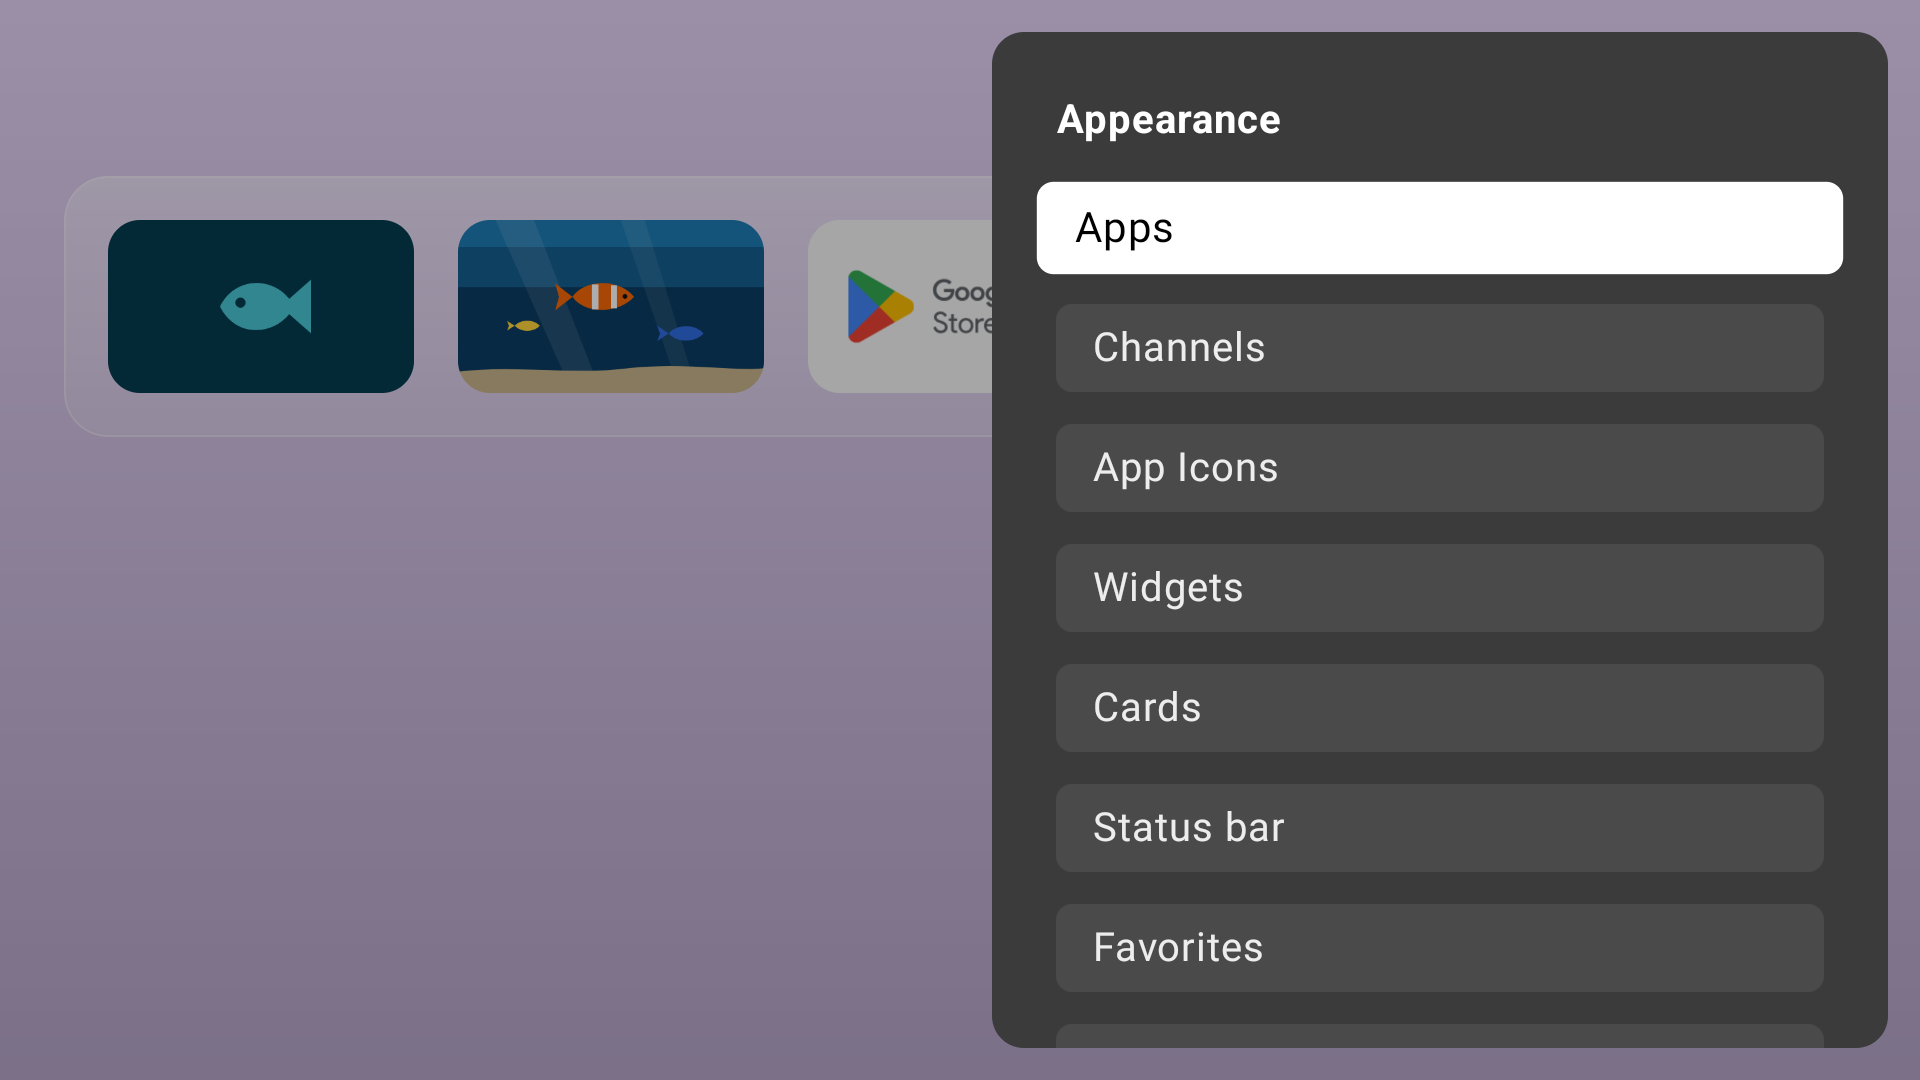
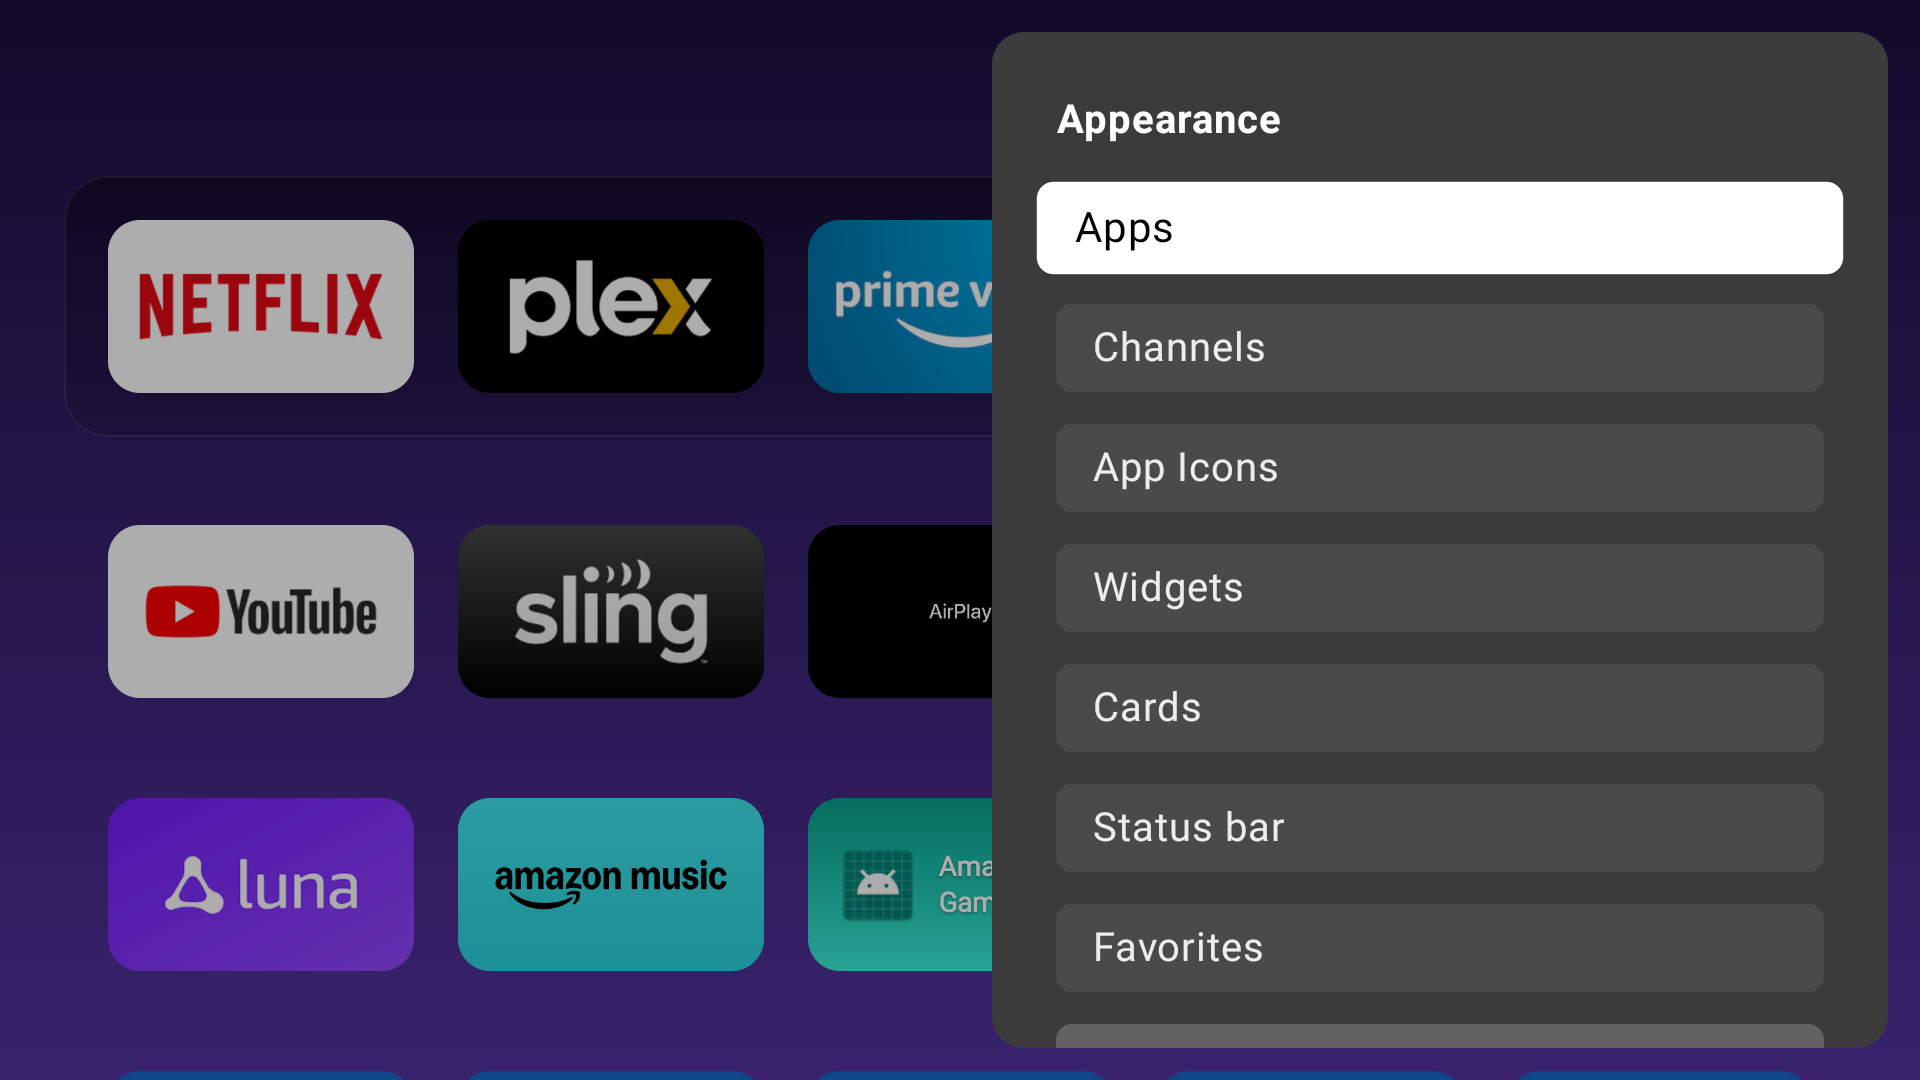
Fix Settings menu dismissal and Home navigation

diff --git a/tests/test_menu_navigation.py b/tests/test_menu_navigation.py
@@ -1,0 +1,60 @@
+import os
+import re
+import subprocess
+import time
+import unittest
+import xml.etree.ElementTree as ET
+
+
+@unittest.skipUnless(os.environ.get('FIRE_TV_UI_MENU_TEST_SERIAL'),
+                     'Set FIRE_TV_UI_MENU_TEST_SERIAL to a TV for remote navigation checks.')
+class MenuNavigationChecks(unittest.TestCase):
+    def adb(self, *args):
+        return subprocess.check_output(
+            ['adb', '-s', os.environ['FIRE_TV_UI_MENU_TEST_SERIAL'], *args], text=True, timeout=30)
+
+    def screen(self):
+        path = '/sdcard/fire-tv-ui-menu-test.xml'
+        for attempt in range(3):
+            self.adb('shell', 'rm', '-f', path)
+            self.adb('shell', 'uiautomator', 'dump', path)
+            try:
+                return ET.fromstring(self.adb('shell', 'cat', path))
+            except (subprocess.CalledProcessError, ET.ParseError):
+                if attempt == 2:
+                    raise
+                time.sleep(0.5)
+
+    def tap(self, label):
+        matches = [node for node in self.screen().iter('node')
+                   if label in (node.get('text'), node.get('content-desc'))]
+        self.assertTrue(matches, 'Missing control: ' + label)
+        x1, y1, x2, y2 = map(int, re.findall(r'\d+', matches[0].get('bounds')))
+        self.adb('shell', 'input', 'tap', str((x1 + x2) // 2), str((y1 + y2) // 2))
+
+    def assert_home(self):
+        screen = self.screen()
+        self.assertFalse(any(node.get('text') == 'Settings' for node in screen.iter('node')))
+        self.assertTrue(any(node.get('content-desc') == 'Preferences'
+                            for node in screen.iter('node')))
+        self.assertIn('com.jeremykenedy.firetv.ui/.MainActivity',
+                      self.adb('shell', 'dumpsys', 'activity', 'activities'))
+
+    def test_remote_menu_dismissal_and_home(self):
+        self.adb('shell', 'am', 'start', '-a', 'android.intent.action.MAIN',
+                 '-c', 'android.intent.category.HOME',
+                 '-n', 'com.jeremykenedy.firetv.ui/.MainActivity')
+        self.assert_home()
+        for key in (4, 4, 82, 3):
+            self.tap('Preferences')
+            self.assertTrue(any(node.get('text') == 'Settings'
+                                for node in self.screen().iter('node')))
+            self.adb('shell', 'input', 'keyevent', str(key))
+            self.assert_home()
+        self.tap('Preferences')
+        self.tap('Theme Mode')
+        self.adb('shell', 'input', 'keyevent', '4')
+        self.assert_home()
+        self.tap('Preferences')
+        self.adb('shell', 'input', 'keyevent', '4')
+        self.assert_home()

diff --git a/scripts/patch_launcher.py b/scripts/patch_launcher.py
@@ -50,6 +50,44 @@ def patch(decoded):
     main = class_paths["Lcom/overdevs/at4k/MainActivity;"]
     text = main.read_text()
     text = replace_once(text,
+        '    const-string v0, "event"\n\n'
+        '    invoke-static {p1, v0}, Lo4/j;->e(Ljava/lang/Object;Ljava/lang/String;)V',
+        '    const-string v0, "event"\n\n'
+        '    invoke-static {p1, v0}, Lo4/j;->e(Ljava/lang/Object;Ljava/lang/String;)V\n\n'
+        '    invoke-virtual {p1}, Landroid/view/KeyEvent;->getKeyCode()I\n'
+        '    move-result v1\n'
+        '    const/4 v2, 0x4\n'
+        '    if-eq v1, v2, :settings_dismiss_key\n'
+        '    const/16 v2, 0x52\n'
+        '    if-ne v1, v2, :settings_key_done\n'
+        '    :settings_dismiss_key\n'
+        '    iget-object v0, p0, Lcom/overdevs/at4k/MainActivity;->A:LQ3/T3;\n'
+        '    if-eqz v0, :settings_key_done\n'
+        '    iget-object v2, v0, LQ3/T3;->m0:LN/g0;\n'
+        '    invoke-virtual {v2}, LN/g0;->getValue()Ljava/lang/Object;\n'
+        '    move-result-object v2\n'
+        '    check-cast v2, Ljava/lang/Boolean;\n'
+        '    invoke-virtual {v2}, Ljava/lang/Boolean;->booleanValue()Z\n'
+        '    move-result v2\n'
+        '    if-eqz v2, :settings_key_done\n'
+        '    invoke-virtual {p1}, Landroid/view/KeyEvent;->getAction()I\n'
+        '    move-result v2\n'
+        '    const/4 v1, 0x1\n'
+        '    if-ne v2, v1, :settings_key_consumed\n'
+        '    invoke-virtual {v0}, LQ3/T3;->u()Ljava/lang/String;\n'
+        '    move-result-object v2\n'
+        '    if-nez v2, :settings_submenu_close\n'
+        '    iget-object v2, v0, LQ3/T3;->m0:LN/g0;\n'
+        '    sget-object v1, Ljava/lang/Boolean;->FALSE:Ljava/lang/Boolean;\n'
+        '    invoke-virtual {v2, v1}, LN/g0;->setValue(Ljava/lang/Object;)V\n'
+        '    :settings_submenu_close\n'
+        '    const/4 v1, 0x0\n'
+        '    invoke-virtual {v0, v1}, LQ3/T3;->T(Ljava/lang/String;)V\n'
+        '    :settings_key_consumed\n'
+        '    const/4 v1, 0x1\n'
+        '    return v1\n'
+        '    :settings_key_done')
+    text = replace_once(text,
         '    const-string v5, "is_premium"\n\n'
         '    invoke-interface {p1, v5, v3}, Landroid/content/SharedPreferences;->getBoolean(Ljava/lang/String;Z)Z\n\n'
         '    move-result p1', '    const/4 p1, 0x1')

diff --git a/app/src/com/jeremykenedy/firetv/ui/HomeRedirectService.java b/app/src/com/jeremykenedy/firetv/ui/HomeRedirectService.java
@@ -110,6 +110,7 @@ public class HomeRedirectService extends AccessibilityService {
                     + " is not installed, leaving the Amazon home screen up");
             return;
         }
+        launch.addCategory(Intent.CATEGORY_HOME);
         launch.addFlags(Intent.FLAG_ACTIVITY_NEW_TASK
                 | Intent.FLAG_ACTIVITY_RESET_TASK_IF_NEEDED
                 | Intent.FLAG_ACTIVITY_NO_ANIMATION);

diff --git a/README.md b/README.md
@@ -9,7 +9,7 @@
 <p align="center">A customizable home screen for Fire TV, with screensavers, persistent backups, local device protection, and every feature included.</p>
 
 <p align="center">
-    <a href="#building"><img src="https://img.shields.io/badge/Fire_TV_UI-v1.1.2-blue" alt="Build version"></a>
+    <a href="#building"><img src="https://img.shields.io/badge/Fire_TV_UI-v1.1.3-blue" alt="Build version"></a>
     <a href="LICENSE"><img src="https://img.shields.io/badge/License-MIT-yellow.svg" alt="License"></a>
 </p>
 
@@ -40,7 +40,7 @@ This repository and its APK are private. Users with repository access can instal
 The [Fire TV Toolkit](https://github.com/jeremykenedy/fire-tv-toolkit) can install a local signed APK and its published checksum:
 
 ```bash
-firetv-ui --install --apk=/path/to/fire-tv-ui-1.1.2.apk --sha256=PUBLISHED_SHA256
+firetv-ui --install --apk=/path/to/fire-tv-ui-1.1.3.apk --sha256=PUBLISHED_SHA256
 ```
 
 For a local build, run `python3 scripts/build.py`, then install it and grant screensaver, backup, storage, and package-install access:
@@ -56,6 +56,8 @@ For wireless ADB, Home-button setup, and transferring settings from an existing 
 ## Quick Start
 
 Open **Fire TV UI**, accept the accessibility disclosure if you want remote shortcuts, and use the preferences icon in the top bar to open Settings.
+
+Press **Back** or **Menu** to dismiss the Settings panel. **Home** returns to the launcher with the panel closed when Home routing is enabled.
 
 Choose **Settings > Screensavers** to select an installed screensaver. Each row has a sample image, installed storage usage, a circular selector, and a **Preview it** button. The top controls open the current screensaver's options, system timers, installation catalog, and memory usage. Previewing another app restores your prior selection afterward.
 
@@ -121,6 +123,7 @@ Device testing is described in [Verification](docs/verification.md).
 - [Verification](docs/verification.md)
 - [Screensaver previews](docs/screensaver-previews.md)
 - [Device controls and backups](docs/device-controls.md)
+- [Fire TV UI 1.1.3 release notes and upgrade guide](docs/releases/v1.1.3.md)
 - [Fire TV UI 1.1.2 release notes and upgrade guide](docs/releases/v1.1.2.md)
 - [Fire TV UI 1.1.1 release notes and upgrade guide](docs/releases/v1.1.1.md)
 
@@ -136,8 +139,8 @@ Captured on Fire TV hardware and an Android TV emulator.
 
 <table>
   <tr>
-    <td><img src="art/screenshots/home-tv-1920.png" alt="Fire TV UI home screen on Android TV"><br>Home</td>
-    <td><img src="art/screenshots/settings-tv-1920.png" alt="Settings menu with the TV screensaver entry"><br>Settings</td>
+    <td><img src="art/screenshots/home-tv-1920.png" alt="Fire TV UI home screen on Fire TV with Settings dismissed"><br>Home</td>
+    <td><img src="art/screenshots/settings-tv-1920.png" alt="Dismissible Settings menu with the TV screensaver entry"><br>Settings</td>
     <td><img src="art/screenshots/tv-screensaver-first-tv-1920.png" alt="Installed screensavers with screenshot previews"><br>TV screensaver</td>
   </tr>
   <tr>
@@ -159,6 +162,11 @@ Captured on Fire TV hardware and an Android TV emulator.
     <td><img src="art/screenshots/install-screensavers-tv-1920.png" alt="Verified screensaver installation and removal catalog"><br>Install screensavers</td>
     <td><img src="art/screenshots/install-screensavers-lower-tv-1920.png" alt="Final catalog entries with their download sizes"><br>More screensavers</td>
     <td><img src="art/screenshots/persistent-backups-tv-1920.png" alt="Persistent TV backup and CLI import restoration"><br>TV backups</td>
+  </tr>
+  <tr>
+    <td><img src="art/screenshots/aquarium-idle-fire-tv-1920.png" alt="Aquarium 4K running automatically after inactivity on Fire TV"><br>Aquarium 4K</td>
+    <td><img src="art/screenshots/aquarium-motion-fire-tv-1920.png" alt="A later Aquarium 4K frame showing swimming fish"><br>Aquarium animation</td>
+    <td><img src="art/screenshots/tv-screensaver-lower-tv-1920.png" alt="More installed screensavers on Fire TV"><br>More installed screensavers</td>
   </tr>
 </table>
 

diff --git a/docs/releases/v1.1.3.md b/docs/releases/v1.1.3.md
@@ -1,0 +1,51 @@
+# Fire TV UI 1.1.3
+
+Fire TV UI 1.1.3 fixes the Settings panel remaining open while Back moves the launcher behind it. Back and Menu dismiss the panel directly, and Home redirection closes menus when returning to Fire TV UI.
+
+## Upgrade guide
+
+Install the signed `fire-tv-ui-1.1.3.apk` over an existing 1.x installation using the same signing key. The update preserves the launcher profile, Home routing, screensaver selection, and timers. No migration or settings reset is needed. Verify the APK against its checksum sidecar before installing.
+
+```bash
+firetv-ui --install --apk=/path/to/fire-tv-ui-1.1.3.apk --sha256=7e793de0224699c44bbecd7b177aeff6143620c381454285555ce66eb771627a
+```
+
+Press Back or Menu while Settings is open to dismiss it. With Home routing enabled, Home returns to the launcher with menus closed. The gear icon still opens Amazon Settings.
+
+## Breaking changes
+
+None. The Android 8.1 minimum, package identity, signing key, and saved settings remain unchanged.
+
+## Major changes
+
+None.
+
+## Minor changes and fixes
+
+- Consume both key events while dismissing Settings so Back does not move the app grid behind the panel.
+- Route Home with the HOME category so the existing launcher menu-reset behavior runs.
+- Add device regression checks for repeated Back dismissal, Menu dismissal, Home dismissal, and returning from Theme Mode.
+- Refresh release screenshots from the signed build on a physical Fire TV.
+
+## Verification
+
+- Signed APK built, aligned, and verified for v2/v3 signatures.
+- 38 Java checks and nine Python checks passed, including remote menu tests on the physical Fire TV. The separate emulator catalog settings-route test was skipped.
+- Aquarium 4K activated automatically after idle, rendered moving fish, and exited with Back to the clear launcher. The original five-minute delay and all 45 saved preferences were preserved.
+- Captured the final interface and checked its screenshot gallery in a browser.
+
+Verification results are recorded in [the release verification guide](https://github.com/jeremykenedy/fire-tv-ui/blob/v1.1.3/docs/verification.md).
+
+## Security and privacy
+
+No new permissions, network services, analytics, or tracking were added.
+
+## Rollback
+
+Save a TV backup before uninstalling. Android blocks installing a lower version code over this update. To return to 1.1.2, uninstall 1.1.3, install the signed 1.1.2 APK, then restore the saved TV backup.
+
+## Known limitations
+
+The physical device checks cover Fire TV AFTDEC012E on Fire OS / Android 11. Physical Android TV and Google TV devices and a physical reboot were not tested for this patch.
+
+[Compare v1.1.2 to v1.1.3](https://github.com/jeremykenedy/fire-tv-ui/compare/v1.1.2...v1.1.3)

diff --git a/docs/verification.md b/docs/verification.md
@@ -6,6 +6,16 @@ Run `python3 scripts/build.py --unsigned` and `bash scripts/test.sh`. The build 
 
 ## Device checks
 
+### Fire TV UI 1.1.3, version code 32
+
+The signed patch was installed over version code 31 on the physical Fire TV AFTDEC012E running Fire OS / Android 11. The device regression test opened Settings repeatedly and confirmed that Back, Menu, and Home dismissed it. Theme Mode returned to the launcher with Back, and Settings could be reopened and dismissed afterward. The gear icon opened Amazon Settings, and Back returned to Fire TV UI.
+
+Aquarium 4K 1.3.6 activated automatically after inactivity with a temporary 15-second delay. Dream Manager reported the Aquarium service as a normal, non-test dream, and two captured frames showed the fish moving. Back stopped the dream and returned to Fire TV UI without a Settings panel. The original five-minute delay was restored, and all 45 saved launcher preferences matched the pre-update backup. The runtime frames are [Aquarium after idle](../art/screenshots/aquarium-idle-fire-tv-1920.png) and [a later animation frame](../art/screenshots/aquarium-motion-fire-tv-1920.png).
+
+`FIRE_TV_UI_MENU_TEST_SERIAL=YOUR_TV_SERIAL bash scripts/test.sh` passed 38 Java checks and nine Python checks. The separate catalog settings-route test was skipped because its emulator serial was not configured. UI capture retries discard stale hierarchy files when Android's automation bridge cannot return a root during a transition.
+
[1 lines of base64/hex data omitted]
+
 ### Fire TV UI 1.1.2, version code 31
 
 | Platform | Result | Notes |

diff --git a/docs/device-controls.md b/docs/device-controls.md
@@ -1,5 +1,9 @@
 # Device controls and backups
 
+## Remote navigation
+
+Back and Menu dismiss the launcher's Settings panel without moving the app grid behind it. Home routing returns to Fire TV UI with its menus closed. Amazon Settings remains reachable from the gear icon, and Back returns from that screen to Fire TV UI.
+
 ## Screensavers
 
 Settings > Screensavers opens the picker directly. The current name appears at the top. Select an installed row to make it active, or choose Preview it to run it temporarily. Returning to the picker restores the prior selection and enabled state, including after an interrupted preview.
